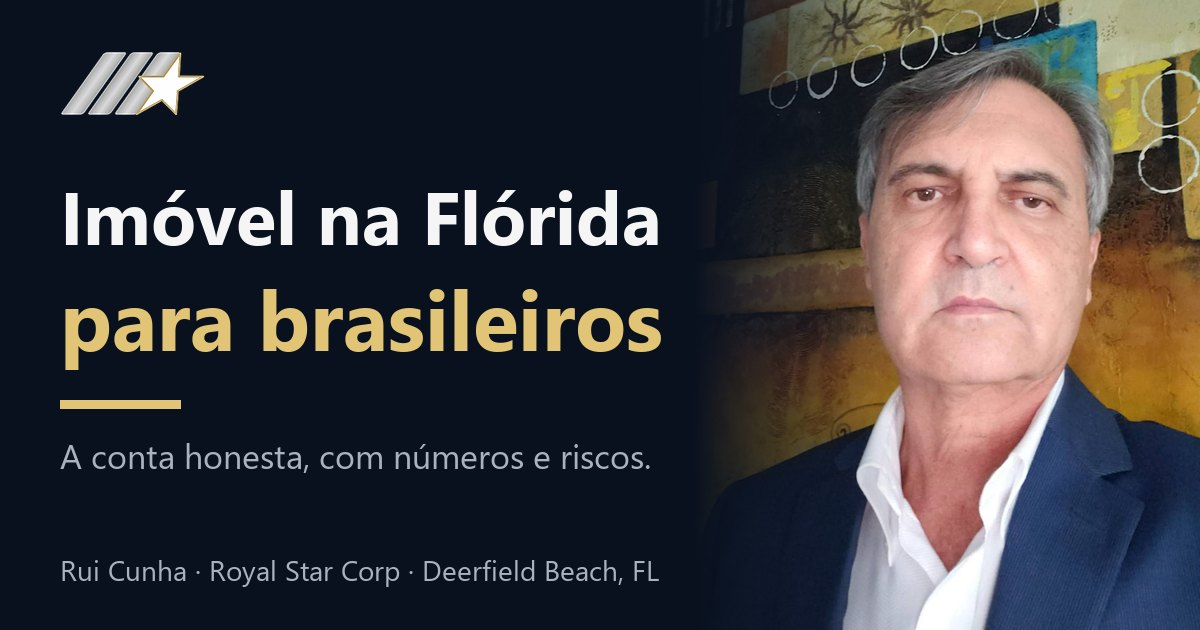
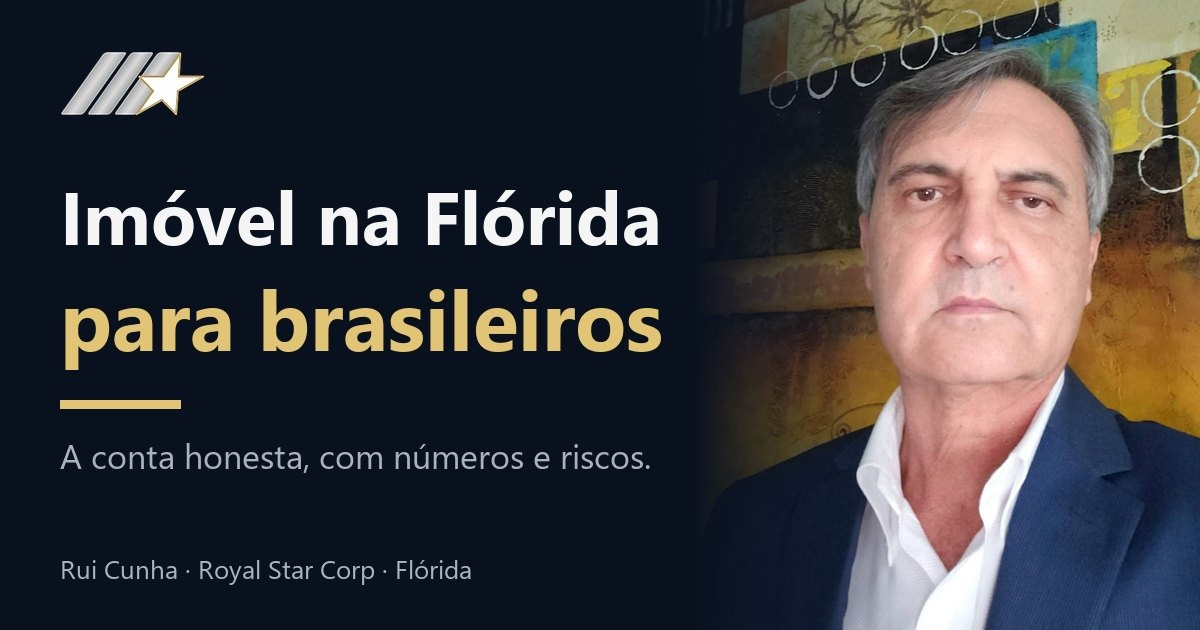
Deploy live

Changed region(s): [[0.0617, 0.8746, 0.555, 0.9349]]

diff --git a/pt/investir-na-florida/index.html b/pt/investir-na-florida/index.html
@@ -97,7 +97,7 @@
 <p>Comprar imóvel, de qualquer valor, não gera visto, residência nem green card. O EB-5 é outro programa, com investimento mínimo de US$ 800 mil em um negócio que crie pelo menos 10 empregos, e uma casa ou um imóvel para alugar não se qualificam (<a href="https://www.claxtonlawgroup.com/investor-visas/eb-5-minimum-investment-2026/" target="_blank" rel="noopener">Claxton Law Group</a>). Para imigração, fale com um advogado.</p>
 <h2 id="aluguel-e-impostos-nos-dois-paises">Aluguel e impostos nos dois países</h2>
 <p>A Flórida não tem imposto de renda estadual (<a href="https://www.taxesforexpats.com/articles/tax-saving-strategies/states-without-income-tax.html" target="_blank" rel="noopener">Taxes for Expats</a>), mas o aluguel continua sujeito ao imposto federal americano, e o imóvel e a renda também precisam ser declarados no Brasil. A forma de comprar (no seu nome ou por empresa) muda a conta. <strong>Consulte um contador nos dois países antes de assinar.</strong> O Rui não dá consultoria tributária e indica quem dá. Se a ideia é se mudar para cá no futuro, veja também <a href="../../pt/comprar-casa-na-florida/">como comprar casa na Flórida</a> morando aqui.</p>
-<h2 id="broward-e-deerfield-beach-ou-orlando">Broward e Deerfield Beach, ou Orlando?</h2>
+<h2 id="sul-da-florida-ou-orlando">Sul da Flórida ou Orlando?</h2>
 <p>Na pesquisa da Florida Realtors, a maior fatia dos brasileiros compra na região Miami–Fort Lauderdale–West Palm Beach, que inclui Broward, e Orlando vem em seguida. A escolha depende do objetivo:</p>
 <ul>
 <li><strong>Orlando</strong> costuma fazer mais sentido para casa de férias perto dos parques, pensada para aluguel por temporada. Se esse for o seu plano, o Rui vai dizer isso a você.</li>
